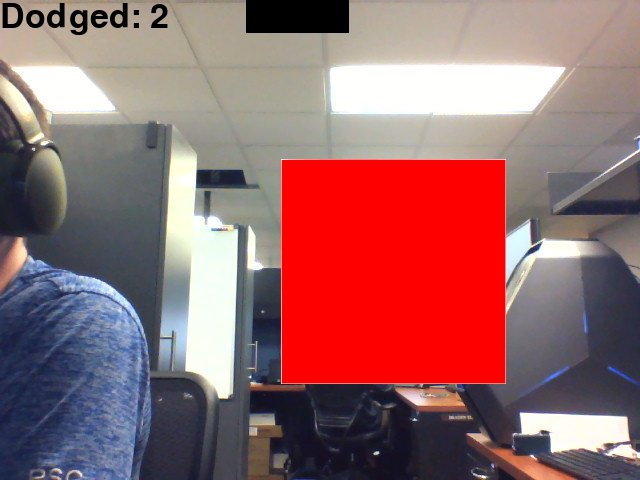
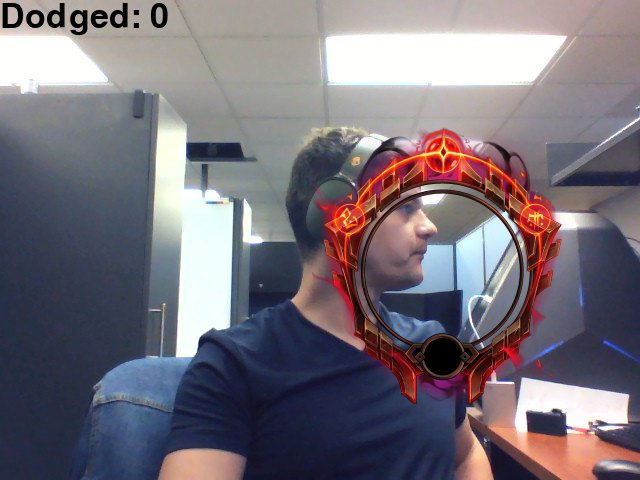
Fixed game

diff --git a/face_detector/FaceDetectorWin/FaceDetectorWin/FaceDetectorWin/bin/Debug/face_game_csharpReady.py b/face_detector/FaceDetectorWin/FaceDetectorWin/FaceDetectorWin/bin/Debug/face_game_csharpReady.py
@@ -27,15 +27,20 @@ gameDisplay = pygame.display.set_mode((display_width,display_height))
 pygame.display.set_caption('Facebox Dodging')
 clock = pygame.time.Clock()
 
-faceBoxImg = pygame.image.load('square.png')
+faceBoxImg = pygame.image.load('lm2.png')
+fruitImg = list(range(1, 31))
 
 def things_dodged(count):
     font = pygame.font.SysFont(None, 50)
     text = font.render("Dodged: "+str(count), True, black)
     gameDisplay.blit(text,(0,0))
 
-def things(thingx, thingy, thingw, thingh, color):
-    pygame.draw.rect(gameDisplay, color, [thingx, thingy, thingw, thingh])
+def things(thingx, thingy, thingw, thingh, color, imageNum):
+    #pygame.draw.rect(gameDisplay, color, [thingx, thingy, thingw, thingh])
+    for x in range(len(fruitImg)):
+        if x == imageNum:
+            imageName="fireball/" + str(fruitImg[x]) + ".png"
+            gameDisplay.blit((pygame.image.load(imageName)),(thingx,thingy,thingw,thingh))
 
 def faceBox(x,y):
     gameDisplay.blit(faceBoxImg,(x,y))
@@ -138,6 +143,7 @@ def game_loop():
     pygame.display.set_caption("Facebox Dodge Game")
     face_cascade = cv2.CascadeClassifier("haarcascade_frontalface_default.xml")
     saveEO = True
+    imageNum=0
     while not gameExit:
         ret, img = capture.read()
         gray = cv2.cvtColor(img, cv2.COLOR_BGR2GRAY)
@@ -156,9 +162,14 @@ def game_loop():
         Backimg = pygame.image.load('1.png')
 #         x += x_change
         gameDisplay.blit(Backimg, (0,0))
-        things(thing_startx, thing_starty, thing_width, thing_height, black)
+        things(thing_startx, thing_starty, thing_width, thing_height, black, imageNum)
+        if imageNum <= len(fruitImg):
+            imageNum += 1
+        else:
+            imageNum = 0
+            
         thing_starty += thing_speed
-        faceBox(x,y)
+        faceBox(x-45,y-50)
         things_dodged(dodged)
         
         if thing_starty > display_height:

diff --git a/face_detector/FaceDetectorWin/FaceDetectorWin/Game_v2/test_for_loop.py b/face_detector/FaceDetectorWin/FaceDetectorWin/Game_v2/test_for_loop.py
@@ -1,0 +1,4 @@
+fruits = ["apple", "banana", "cherry"]
+for x in range(len(fruits)):
+  print(x)
+  print(fruits[x])
